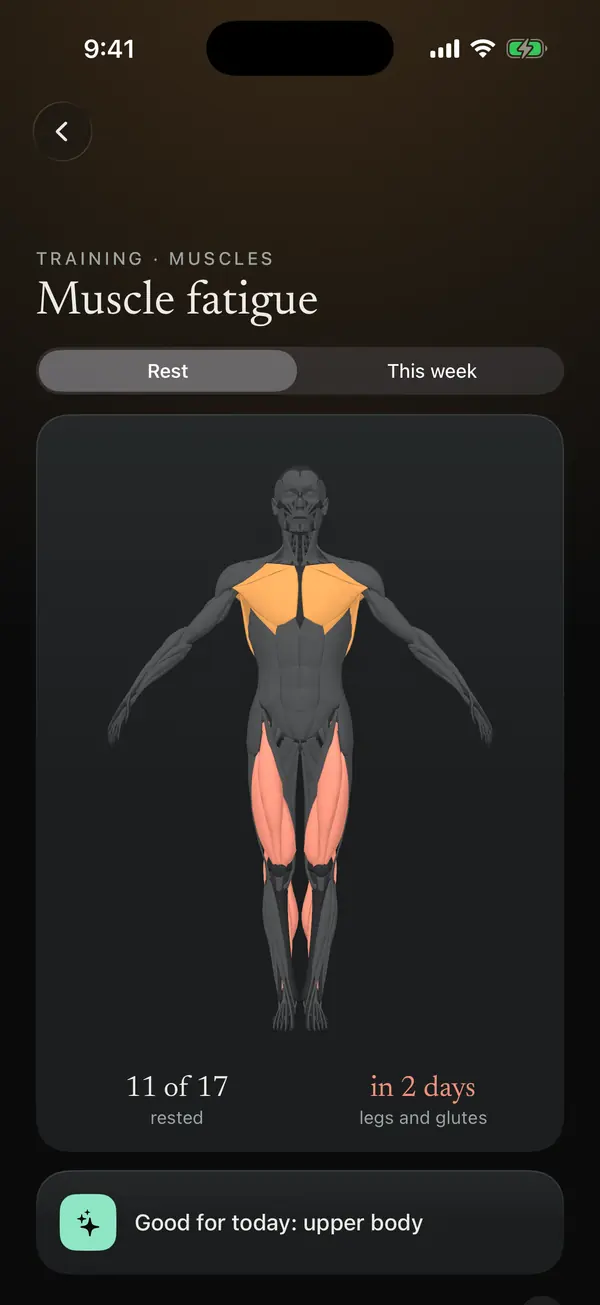
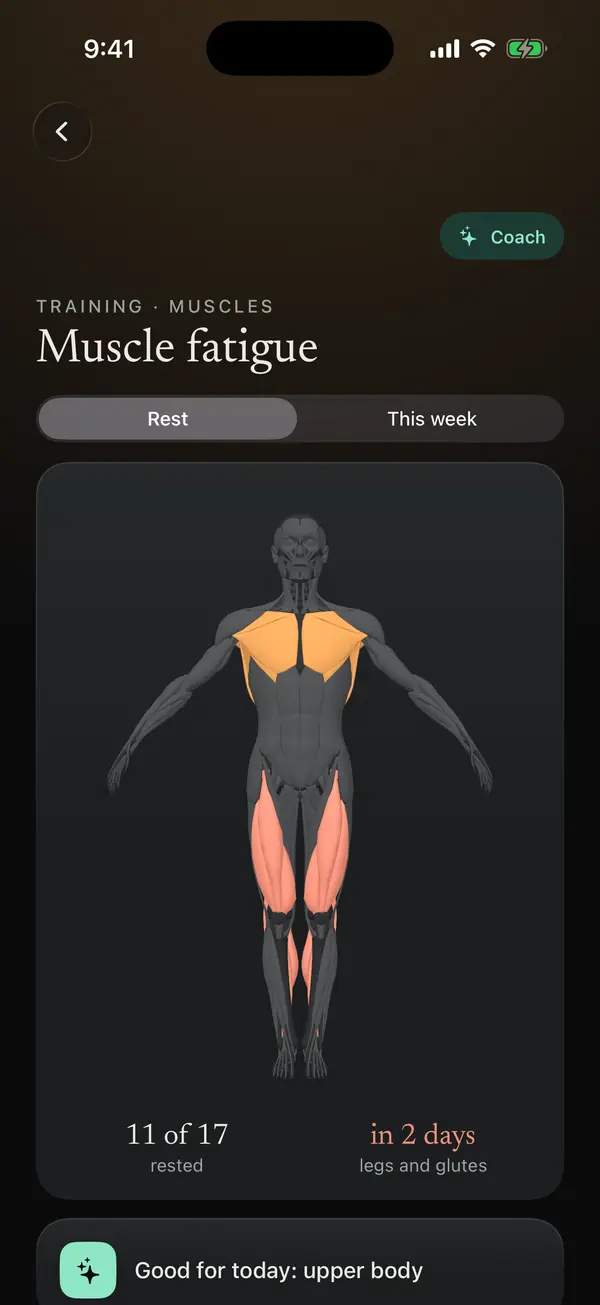
App Store screenshots: sample day shows hourly weather and the Coach chip; CI shoots the timeline, coach on Training and a coach answer (#679)
* App Store screenshots: the demo's Today shows the hours of the forecast; CI also shoots the timeline, the coach on Training and a coach answer

Claude-Session: https://claude.ai/code/session_01GJwnsdee2tDjv1TRqstFtu

* Smoke test: App Store shots scroll a quarter screen at a time, so the whole timeline and the coach's card fit one shot

Claude-Session: https://claude.ai/code/session_01GJwnsdee2tDjv1TRqstFtu

* Sample day: the ✦ Coach chip shows in the details and in training mode too, answering from the sample day

Claude-Session: https://claude.ai/code/session_01GJwnsdee2tDjv1TRqstFtu

* Website: the sample day's screens again (Today's forecast hours, the Coach chip in details and training mode)

Claude-Session: https://claude.ai/code/session_01GJwnsdee2tDjv1TRqstFtu

---------

Changed region(s): [[0.06, 0.1839, 0.96, 0.8276], [0.06, 0.8276, 0.96, 1.0], [0.72, 0.1533, 0.96, 0.2146]]

diff --git a/ios-native/Aurin/Data/DemoData.swift b/ios-native/Aurin/Data/DemoData.swift
@@ -165,6 +165,7 @@ enum DemoData {
         {"date":"2026-09-25","value":82.7},{"date":"2026-09-27","value":82.9},{"date":"2026-09-29","value":82.6},{"date":"2026-10-01","value":82.8},
         {"date":"2026-10-03","value":82.5},{"date":"2026-10-05","value":82.7},{"date":"2026-10-07","value":82.4}] },
       "weather": { "place": "Praha", "code": 2, "max": 14, "min": 6, "wind": 18, "rain": 0.4, "rainProb": 30, "source": "apple",
+        "hours": [{"hour": 8, "temp": 9, "code": 2}, {"hour": 11, "temp": 13, "code": 2}, {"hour": 14, "temp": 14, "code": 2}, {"hour": 17, "temp": 13, "code": 61}, {"hour": 20, "temp": 9, "code": 61}],
         "outdoor": { "environment": "outdoor", "reason": "Podle dostupné předpovědi." },
         "outdoorRun": { "environment": "outdoor", "reason": "Podle dostupné předpovědi." }, "now": {"temp": 12, "code": 2, "wind": 18, "windDirection": 315, "daylight": true}, "next": [{"hour": 9, "temp": 10, "code": 2, "rainProb": 10}, {"hour": 10, "temp": 12, "code": 2, "rainProb": 10}, {"hour": 11, "temp": 13, "code": 2, "rainProb": 10}, {"hour": 12, "temp": 13, "code": 2, "rainProb": 10}, {"hour": 13, "temp": 14, "code": 2, "rainProb": 10}, {"hour": 14, "temp": 14, "code": 2, "rainProb": 10}, {"hour": 15, "temp": 14, "code": 2, "rainProb": 10}, {"hour": 16, "temp": 13, "code": 2, "rainProb": 10}, {"hour": 17, "temp": 13, "code": 61, "rainProb": 70}, {"hour": 18, "temp": 12, "code": 61, "rainProb": 70}, {"hour": 19, "temp": 10, "code": 61, "rainProb": 60}, {"hour": 20, "temp": 9, "code": 61, "rainProb": 60}, {"hour": 21, "temp": 8, "code": 2, "rainProb": 10}, {"hour": 22, "temp": 6, "code": 2, "rainProb": 10}, {"hour": 23, "temp": 7, "code": 3, "rainProb": 30}], "week": [{"date": "2026-10-08", "code": 2, "max": 14, "min": 6, "rainProb": 30, "hours": [{"hour": 6, "temp": 6, "code": 2, "rainProb": 10}, {"hour": 7, "temp": 8, "code": 2, "rainProb": 10}, {"hour": 8, "temp": 9, "code": 2, "rainProb": 10}, {"hour": 9, "temp": 10, "code": 2, "rainProb": 10}, {"hour": 10, "temp": 12, "code": 2, "rainProb": 10}, {"hour": 11, "temp": 13, "code": 2, "rainProb": 10}, {"hour": 12, "temp": 13, "code": 2, "rainProb": 10}, {"hour": 13, "temp": 14, "code": 2, "rainProb": 10}, {"hour": 14, "temp": 14, "code": 2, "rainProb": 10}, {"hour": 15, "temp": 14, "code": 2, "rainProb": 10}, {"hour": 16, "temp": 13, "code": 2, "rainProb": 10}, {"hour": 17, "temp": 13, "code": 61, "rainProb": 70}, {"hour": 18, "temp": 12, "code": 61, "rainProb": 70}, {"hour": 19, "temp": 10, "code": 61, "rainProb": 60}, {"hour": 20, "temp": 9, "code": 61, "rainProb": 60}, {"hour": 21, "temp": 8, "code": 2, "rainProb": 10}, {"hour": 22, "temp": 6, "code": 2, "rainProb": 10}], "ride": {"environment": "outdoor", "reason": "Nejvýš 14°, déšť na 30 %."}, "run": {"environment": "outdoor", "reason": "Nejvýš 14°, déšť na 30 %."}}, {"date": "2026-10-09", "code": 61, "max": 10, "min": 5, "rainProb": 80, "hours": [{"hour": 6, "temp": 5, "code": 61, "rainProb": 80}, {"hour": 7, "temp": 6, "code": 61, "rainProb": 80}, {"hour": 8, "temp": 7, "code": 61, "rainProb": 80}, {"hour": 9, "temp": 8, "code": 61, "rainProb": 80}, {"hour": 10, "temp": 8, "code": 61, "rainProb": 80}, {"hour": 11, "temp": 9, "code": 61, "rainProb": 80}, {"hour": 12, "temp": 10, "code": 61, "rainProb": 80}, {"hour": 13, "temp": 10, "code": 61, "rainProb": 80}, {"hour": 14, "temp": 10, "code": 61, "rainProb": 80}, {"hour": 15, "temp": 10, "code": 61, "rainProb": 80}, {"hour": 16, "temp": 10, "code": 61, "rainProb": 80}, {"hour": 17, "temp": 9, "code": 61, "rainProb": 80}, {"hour": 18, "temp": 8, "code": 61, "rainProb": 80}, {"hour": 19, "temp": 8, "code": 61, "rainProb": 80}, {"hour": 20, "temp": 7, "code": 61, "rainProb": 80}, {"hour": 21, "temp": 6, "code": 61, "rainProb": 80}, {"hour": 22, "temp": 5, "code": 61, "rainProb": 80}], "ride": {"environment": "indoor", "reason": "Déšť na 80 %."}, "run": {"environment": "indoor", "reason": "Déšť na 80 %."}}, {"date": "2026-10-10", "code": 3, "max": 9, "min": 3, "rainProb": 20, "hours": [{"hour": 6, "temp": 3, "code": 3, "rainProb": 6}, {"hour": 7, "temp": 4, "code": 3, "rainProb": 6}, {"hour": 8, "temp": 5, "code": 3, "rainProb": 6}, {"hour": 9, "temp": 6, "code": 3, "rainProb": 6}, {"hour": 10, "temp": 7, "code": 3, "rainProb": 6}, {"hour": 11, "temp": 8, "code": 3, "rainProb": 6}, {"hour": 12, "temp": 8, "code": 3, "rainProb": 6}, {"hour": 13, "temp": 9, "code": 3, "rainProb": 6}, {"hour": 14, "temp": 9, "code": 3, "rainProb": 6}, {"hour": 15, "temp": 9, "code": 3, "rainProb": 6}, {"hour": 16, "temp": 8, "code": 3, "rainProb": 6}, {"hour": 17, "temp": 8, "code": 3, "rainProb": 6}, {"hour": 18, "temp": 7, "code": 3, "rainProb": 6}, {"hour": 19, "temp": 6, "code": 3, "rainProb": 6}, {"hour": 20, "temp": 5, "code": 3, "rainProb": 6}, {"hour": 21, "temp": 4, "code": 3, "rainProb": 6}, {"hour": 22, "temp": 3, "code": 3, "rainProb": 6}], "ride": {"environment": "outdoor", "reason": "Sucho, nejvýš 9°."}, "run": {"environment": "outdoor", "reason": "Sucho, nejvýš 9°."}}, {"date": "2026-10-11", "code": 0, "max": 12, "min": 2, "rainProb": 0, "hours": [{"hour": 6, "temp": 2, "code": 0, "rainProb": 0}, {"hour": 7, "temp": 4, "code": 0, "rainProb": 0}, {"hour": 8, "temp": 6, "code": 0, "rainProb": 0}, {"hour": 9, "temp": 8, "code": 0, "rainProb": 0}, {"hour": 10, "temp": 9, "code": 0, "rainProb": 0}, {"hour": 11, "temp": 10, "code": 0, "rainProb": 0}, {"hour": 12, "temp": 11, "code": 0, "rainProb": 0}, {"hour": 13, "temp": 12, "code": 0, "rainProb": 0}, {"hour": 14, "temp": 12, "code": 0, "rainProb": 0}, {"hour": 15, "temp": 12, "code": 0, "rainProb": 0}, {"hour": 16, "temp": 11, "code": 0, "rainProb": 0}, {"hour": 17, "temp": 10, "code": 0, "rainProb": 0}, {"hour": 18, "temp": 9, "code": 0, "rainProb": 0}, {"hour": 19, "temp": 8, "code": 0, "rainProb": 0}, {"hour": 20, "temp": 6, "code": 0, "rainProb": 0}, {"hour": 21, "temp": 4, "code": 0, "rainProb": 0}, {"hour": 22, "temp": 2, "code": 0, "rainProb": 0}], "ride": {"environment": "outdoor", "reason": "Sucho, nejvýš 12°."}, "run": {"environment": "outdoor", "reason": "Sucho, nejvýš 12°."}}, {"date": "2026-10-12", "code": 61, "max": 8, "min": 4, "rainProb": 60, "hours": [{"hour": 6, "temp": 4, "code": 61, "rainProb": 60}, {"hour": 7, "temp": 5, "code": 61, "rainProb": 60}, {"hour": 8, "temp": 6, "code": 61, "rainProb": 60}, {"hour": 9, "temp": 6, "code": 61, "rainProb": 60}, {"hour": 10, "temp": 7, "code": 61, "rainProb": 60}, {"hour": 11, "temp": 7, "code": 61, "rainProb": 60}, {"hour": 12, "temp": 8, "code": 61, "rainProb": 60}, {"hour": 13, "temp": 8, "code": 61, "rainProb": 60}, {"hour": 14, "temp": 8, "code": 61, "rainProb": 60}, {"hour": 15, "temp": 8, "code": 61, "rainProb": 60}, {"hour": 16, "temp": 8, "code": 61, "rainProb": 60}, {"hour": 17, "temp": 7, "code": 61, "rainProb": 60}, {"hour": 18, "temp": 7, "code": 61, "rainProb": 60}, {"hour": 19, "temp": 6, "code": 61, "rainProb": 60}, {"hour": 20, "temp": 6, "code": 61, "rainProb": 60}, {"hour": 21, "temp": 5, "code": 61, "rainProb": 60}, {"hour": 22, "temp": 4, "code": 61, "rainProb": 60}], "ride": {"environment": "outdoor", "reason": "Nejvýš 8°, déšť na 60 %."}, "run": {"environment": "outdoor", "reason": "Nejvýš 8°, déšť na 60 %."}}, {"date": "2026-10-13", "code": 2, "max": 11, "min": 4, "rainProb": 10, "hours": [{"hour": 6, "temp": 4, "code": 2, "rainProb": 3}, {"hour": 7, "temp": 5, "code": 2, "rainProb": 3}, {"hour": 8, "temp": 7, "code": 2, "rainProb": 3}, {"hour": 9, "temp": 8, "code": 2, "rainProb": 3}, {"hour": 10, "temp": 9, "code": 2, "rainProb": 3}, {"hour": 11, "temp": 10, "code": 2, "rainProb": 3}, {"hour": 12, "temp": 10, "code": 2, "rainProb": 3}, {"hour": 13, "temp": 11, "code": 2, "rainProb": 3}, {"hour": 14, "temp": 11, "code": 2, "rainProb": 3}, {"hour": 15, "temp": 11, "code": 2, "rainProb": 3}, {"hour": 16, "temp": 10, "code": 2, "rainProb": 3}, {"hour": 17, "temp": 10, "code": 2, "rainProb": 3}, {"hour": 18, "temp": 9, "code": 2, "rainProb": 3}, {"hour": 19, "temp": 8, "code": 2, "rainProb": 3}, {"hour": 20, "temp": 7, "code": 2, "rainProb": 3}, {"hour": 21, "temp": 5, "code": 2, "rainProb": 3}, {"hour": 22, "temp": 4, "code": 2, "rainProb": 3}], "ride": {"environment": "outdoor", "reason": "Sucho, nejvýš 11°."}, "run": {"environment": "outdoor", "reason": "Sucho, nejvýš 11°."}}, {"date": "2026-10-14", "code": 0, "max": 13, "min": 5, "rainProb": 0, "hours": [{"hour": 6, "temp": 5, "code": 0, "rainProb": 0}, {"hour": 7, "temp": 7, "code": 0, "rainProb": 0}, {"hour": 8, "temp": 8, "code": 0, "rainProb": 0}, {"hour": 9, "temp": 9, "code": 0, "rainProb": 0}, {"hour": 10, "temp": 11, "code": 0, "rainProb": 0}, {"hour": 11, "temp": 12, "code": 0, "rainProb": 0}, {"hour": 12, "temp": 12, "code": 0, "rainProb": 0}, {"hour": 13, "temp": 13, "code": 0, "rainProb": 0}, {"hour": 14, "temp": 13, "code": 0, "rainProb": 0}, {"hour": 15, "temp": 13, "code": 0, "rainProb": 0}, {"hour": 16, "temp": 12, "code": 0, "rainProb": 0}, {"hour": 17, "temp": 12, "code": 0, "rainProb": 0}, {"hour": 18, "temp": 11, "code": 0, "rainProb": 0}, {"hour": 19, "temp": 9, "code": 0, "rainProb": 0}, {"hour": 20, "temp": 8, "code": 0, "rainProb": 0}, {"hour": 21, "temp": 7, "code": 0, "rainProb": 0}, {"hour": 22, "temp": 5, "code": 0, "rainProb": 0}], "ride": {"environment": "outdoor", "reason": "Sucho, nejvýš 13°."}, "run": {"environment": "outdoor", "reason": "Sucho, nejvýš 13°."}}] }
     }

diff --git a/ios-native/Aurin/Screens/CoachFromDetail.swift b/ios-native/Aurin/Screens/CoachFromDetail.swift
@@ -181,28 +181,27 @@ struct CoachSubject: Equatable {
 
 /// "✦ Kouč" in a detail's header: opens the coach about what the screen shows.
 struct CoachPill: View {
-    @Environment(AppModel.self) private var model
     let subject: CoachSubject
     /// 34 beside the chips of Režim tréninku.
     var height: CGFloat = 32
     @State private var open = false
 
+    // Also in the demo, which answers from the sample day (CoachView.demoAnswer),
+    // so the sample day and the App Store screenshots show the coach where a real phone does.
     var body: some View {
-        if !model.demo {
-            Button { open = true } label: {
-                Label("Kouč", systemImage: "sparkles")
-                    .font(Typo.caption.weight(.semibold)).foregroundStyle(Palette.green)
-                    // Never wraps to two lines or shortens with "…" beside other chips.
-                    .lineLimit(1).fixedSize()
-                    .padding(.horizontal, 12).frame(height: height)
-                    .background(Palette.greenSoft, in: Capsule())
-            }
-            .buttonStyle(.plain)
-            .accessibilityLabel(L10n.tr("Zeptat se kouče"))
-            .sheet(isPresented: $open) {
-                CoachView(view: subject.view, date: subject.date, subject: subject, openChat: WorkoutCoachChat.id(for: subject),
-                          keepChat: { WorkoutCoachChat.keep($0, for: subject) })
-            }
+        Button { open = true } label: {
+            Label("Kouč", systemImage: "sparkles")
+                .font(Typo.caption.weight(.semibold)).foregroundStyle(Palette.green)
+                // Never wraps to two lines or shortens with "…" beside other chips.
+                .lineLimit(1).fixedSize()
+                .padding(.horizontal, 12).frame(height: height)
+                .background(Palette.greenSoft, in: Capsule())
+        }
+        .buttonStyle(.plain)
+        .accessibilityLabel(L10n.tr("Zeptat se kouče"))
+        .sheet(isPresented: $open) {
+            CoachView(view: subject.view, date: subject.date, subject: subject, openChat: WorkoutCoachChat.id(for: subject),
+                      keepChat: { WorkoutCoachChat.keep($0, for: subject) })
         }
     }
 }

diff --git a/ios-native/AurinUITests/SmokeTests.swift b/ios-native/AurinUITests/SmokeTests.swift
@@ -234,6 +234,24 @@ final class SmokeTests: XCTestCase {
         if tapIfThere(app.buttons.matching(identifier: "Coach").allElementsBoundByIndex.first { $0.isHittable } ?? app.buttons["Coach"]) {
             pause(3)
             shot("kouc")
+            // The coach's ready answer from the sample day (App Store screenshots).
+            if tapIfThere(app.buttons.matching(NSPredicate(format: "label CONTAINS %@", "How should I train today")).firstMatch) {
+                pause(8)
+                shot("kouc-odpoved")
+            }
+        }
+
+        // For the App Store screenshots: Today down to the day's timeline, and
+        // Training down to the coach's card under today's workout.
+        // A quarter of the screen at a time, so one shot holds a whole card.
+        for (tab, file, steps) in [("today", "dnes", 7), ("training", "trenink", 4)] {
+            english("-tab", tab)
+            pause(4)
+            for i in 0..<steps {
+                scroll(0.25)
+                pause(1)
+                shot("\(file)-\(i + 2)")
+            }
         }
     }
 
@@ -286,6 +304,13 @@ final class SmokeTests: XCTestCase {
         XCTAssertTrue(app.wait(for: .runningForeground, timeout: 5), "the app quit on \(route)")
         XCTAssertFalse(card.isHittable, "\(route) did not open")
         shot(file)
+    }
+
+    /// Scrolls up by a share of the screen, held at the end so it does not fly on.
+    private func scroll(_ share: CGFloat) {
+        let start = app.coordinate(withNormalizedOffset: CGVector(dx: 0.5, dy: 0.7))
+        let end = app.coordinate(withNormalizedOffset: CGVector(dx: 0.5, dy: 0.7 - share))
+        start.press(forDuration: 0.05, thenDragTo: end, withVelocity: .slow, thenHoldForDuration: 0.4)
     }
 
     private func pause(_ seconds: TimeInterval = 1.5) {

diff --git a/docs/website-follows-app.md b/docs/website-follows-app.md
@@ -14,6 +14,9 @@ flags app pull requests that leave the overview untouched.
   `public/site/app/*.webp`. `scripts/site-screens.mjs` turns the unzipped artifact into them; the same
   shots in dark mode become `*-dark.webp` for the site's dark look (`DARK_SITE`).
 - The same screens make the overview as images for Reddit or the App Store (`scripts/render-overview.mjs`).
+- The App Store screenshots (6.3" 1206×2622, 6.9" 1320×2868; the app is iPhone only) use the same English
+  shots, plus the smoke test's `dnes-*` (Today down to the day's timeline), `trenink-*` (Training down to the
+  coach's card) and `kouc-odpoved` (the coach answering).
 - Beside each phone stands a live demo (`src/site-demos.js`): a piece of the app rebuilt in HTML that
   moves (the dial turns, the rest timer counts down, the coach answers), following the app's own view and
   the sample day. Where a screenshot can't show a step, the phone's screen is built there too (strain, the
